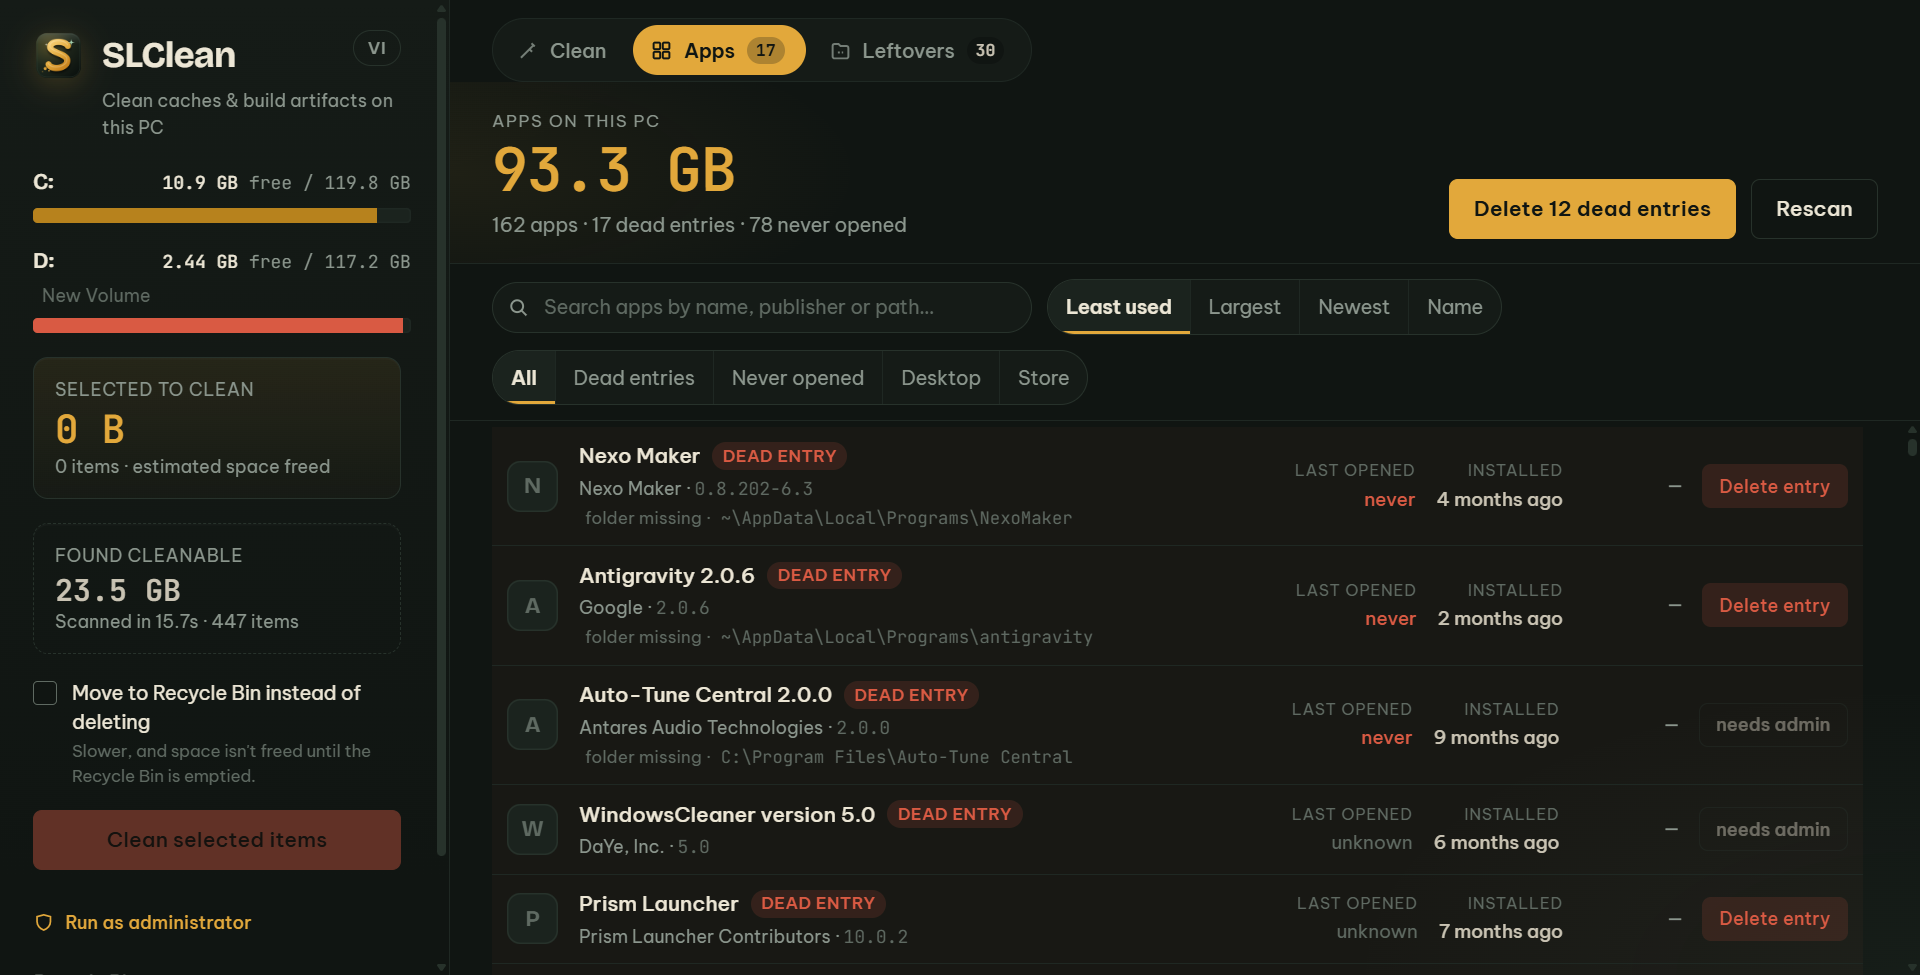
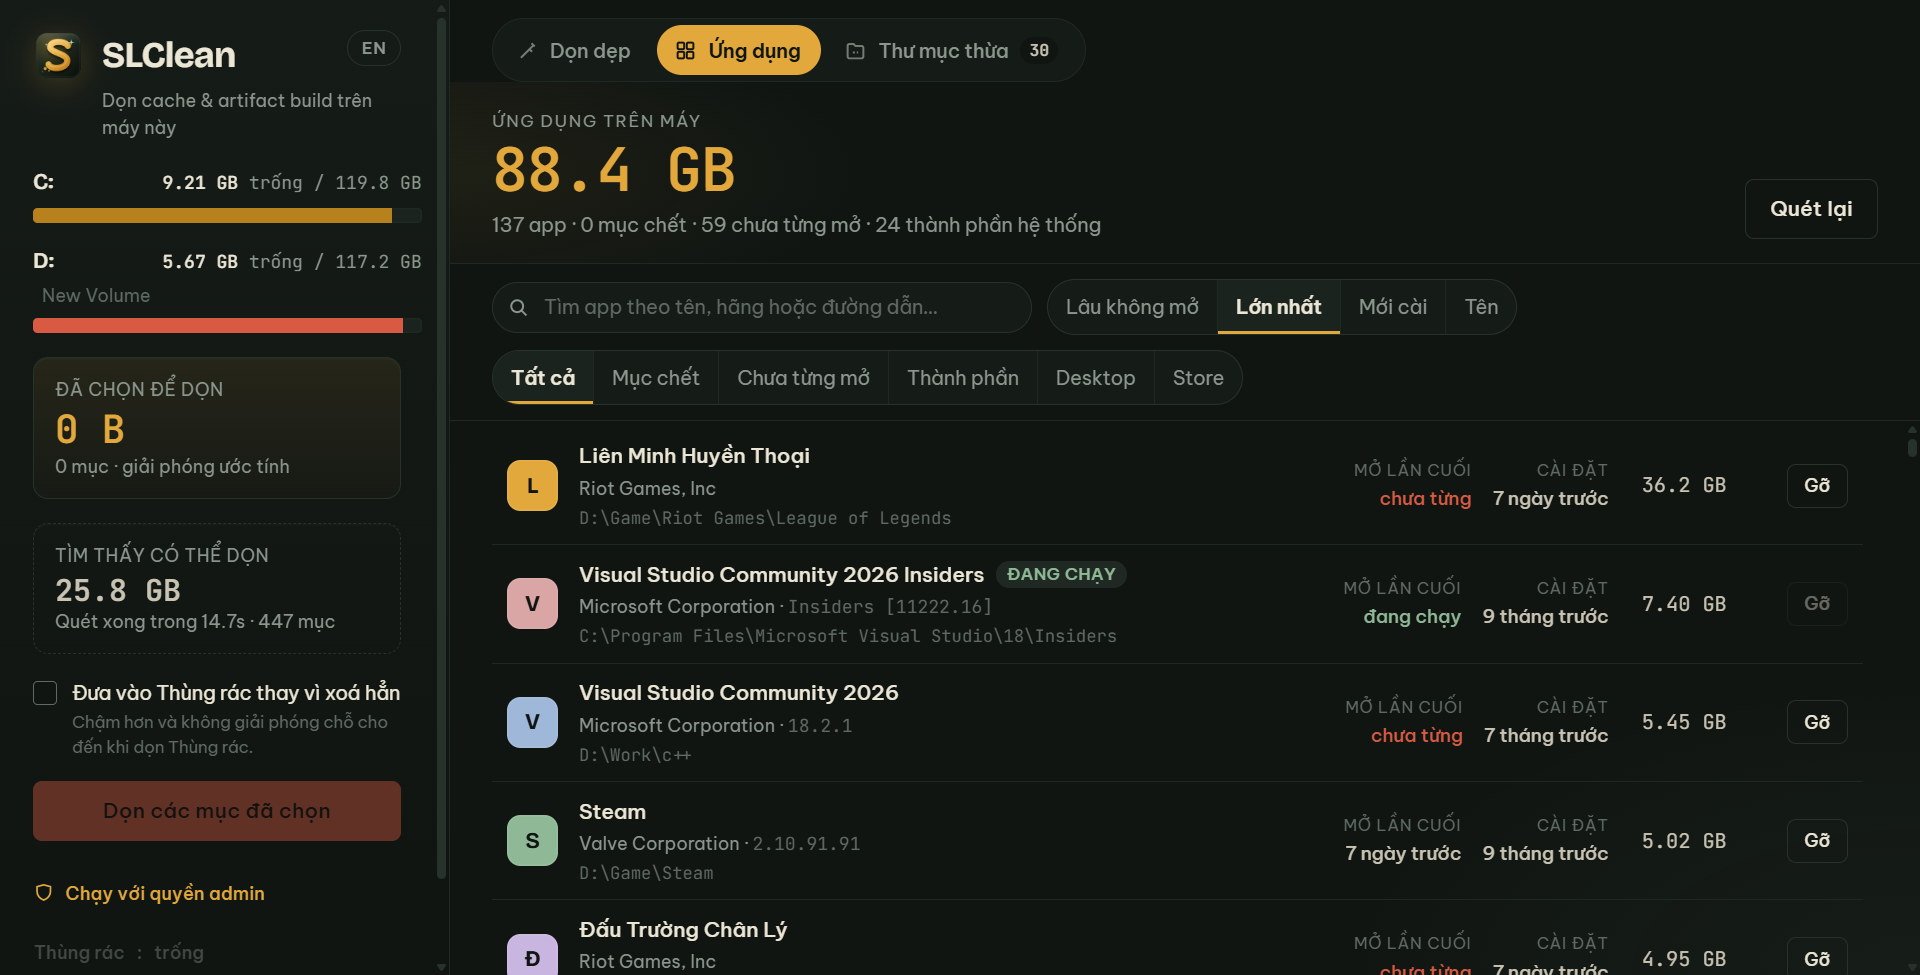
feat: split background system components out of the uninstall candidates
Redistributables, runtimes, SDKs, drivers, services, codecs and extensions are
never opened by hand, so counting them as "never opened" made that number
useless. An entry is a system component when its name says so AND no Start
Menu, Taskbar or Desktop shortcut points into its install folder — the second
condition keeps apps that merely sound like components, such as Visual Studio
Installer, in the normal list.

Components sort last, show "—" for last opened, carry a component tag and have
their own filter chip; they are excluded from the never-opened count.
On this machine that moves 24 entries out and drops never-opened from 84 to 60.

diff --git a/ui/js/apps-tab.js b/ui/js/apps-tab.js
@@ -23,12 +23,18 @@ function appMatches(a) {
   return [a.name, a.publisher, a.install_dir || ""].some((s) => String(s).toLowerCase().includes(appsQuery));
 }
 
+/** App bình thường mà người dùng có thể cân nhắc gỡ (không phải mục chết, không phải thành phần nền). */
+function isUninstallCandidate(a) {
+  return !a.dead && !a.system_component;
+}
+
 function appPasses(a) {
   if (a.gone) return false;
   if (!appMatches(a)) return false;
   switch (appsFilter) {
     case "dead": return a.dead;
-    case "never": return !a.dead && a.usage_known && a.last_used === 0 && !a.running;
+    case "never": return isUninstallCandidate(a) && a.usage_known && a.last_used === 0 && !a.running;
+    case "component": return a.system_component;
     case "desktop": return a.kind === "desktop";
     case "store": return a.kind === "store";
     default: return true;
@@ -42,8 +48,9 @@ function appCompare(x, y) {
     case "name": return x.name.localeCompare(y.name, undefined, { sensitivity: "base" });
     default: {
       // Lâu không mở: mục chết trước, rồi chưa từng mở, rồi không rõ (không có thư mục để đối
-      // chiếu), rồi lần mở cũ nhất; đang chạy cuối. Cùng hạng thì lớn trước.
-      const rank = (a) => (a.dead ? 0 : a.running ? 4 : !a.usage_known ? 2 : a.last_used === 0 ? 1 : 3);
+      // chiếu), rồi lần mở cũ nhất, rồi đang chạy; thành phần nền xuống cuối vì không phải ứng
+      // viên để gỡ. Cùng hạng thì lớn trước.
+      const rank = (a) => (a.dead ? 0 : a.system_component ? 5 : a.running ? 4 : !a.usage_known ? 2 : a.last_used === 0 ? 1 : 3);
       return rank(x) - rank(y) || (x.last_used - y.last_used) || (y.bytes - x.bytes);
     }
   }
@@ -51,6 +58,8 @@ function appCompare(x, y) {
 
 function lastUsedCol(a) {
   if (a.running) return `<span class="app__col app__col--fresh"><small>${t("apps.lastUsedLabel")}</small><b>${t("apps.running")}</b></span>`;
+  // Thành phần nền không có gì để "mở", nên "chưa từng" ở đây là vô nghĩa.
+  if (a.system_component && !a.last_used) return `<span class="app__col app__col--unknown"><small>${t("apps.lastUsedLabel")}</small><b>—</b></span>`;
   if (!a.usage_known) return `<span class="app__col app__col--unknown" title="${esc(t("apps.unknownTitle"))}"><small>${t("apps.lastUsedLabel")}</small><b>${t("apps.unknown")}</b></span>`;
   if (!a.last_used) return `<span class="app__col app__col--never"><small>${t("apps.lastUsedLabel")}</small><b>${t("apps.never")}</b></span>`;
   const stale = isStale(a.last_used);
@@ -76,6 +85,7 @@ function appRow(a) {
   li.style.setProperty("--av", avatarColor(a.name));
   const tags = [];
   if (a.dead) tags.push(`<b class="tag tag--dead" title="${esc(t("apps.deadTitle"))}">${t("apps.dead")}</b>`);
+  if (a.system_component) tags.push(`<b class="tag tag--component" title="${esc(t("apps.componentTitle"))}">${t("apps.component")}</b>`);
   if (a.kind === "store") tags.push(`<b class="tag tag--store">Store</b>`);
   if (a.running) tags.push(`<b class="tag tag--running">${t("apps.running")}</b>`);
   if (a.denied > 0) tags.push(`<b class="tag tag--partial" title="${esc(t("tag.partialTitle"))}">${t("tag.partial")}</b>`);
@@ -126,16 +136,20 @@ function renderApps() {
 }
 
 function refreshAppsTotals() {
-  let bytes = 0, dead = 0, never = 0, deadRemovable = 0, live = 0;
+  let bytes = 0, dead = 0, never = 0, deadRemovable = 0, live = 0, components = 0;
   for (const a of apps.values()) {
     if (a.gone) continue;
     live++;
     bytes += a.folder_exists ? a.bytes : 0;
     if (a.dead) { dead++; if (!a.needs_admin) deadRemovable++; }
+    else if (a.system_component) components++;
     else if (a.usage_known && a.last_used === 0 && !a.running) never++;
   }
   $("#apps-hero").textContent = apps.size ? fmtBytes(bytes) : "—";
-  if (!appsScanning) $("#apps-sub").textContent = apps.size ? t("apps.summary", { n: live, dead, never }) : t("apps.subIdle");
+  if (!appsScanning) {
+    const sum = t("apps.summary", { n: live, dead, never });
+    $("#apps-sub").textContent = apps.size ? (components ? `${sum} · ${t("apps.summaryComponents", { n: components })}` : sum) : t("apps.subIdle");
+  }
   const hidden = [...apps.values()].filter((a) => !a.gone && !appPasses(a)).length;
   $("#apps-hint").textContent = hidden ? t("apps.hiddenHint", { n: hidden }) : "";
   const bulk = $("#btn-remove-dead");

diff --git a/ui/js/i18n-strings.js b/ui/js/i18n-strings.js
@@ -134,6 +134,7 @@ const STRINGS = {
     "apps.eyebrow": "Ứng dụng trên máy",
     "apps.subIdle": "Windows ghi lại lần bạn mở mỗi app. App lâu không mở hoặc chưa từng mở là ứng viên để gỡ.",
     "apps.summary": "{n} app · {dead} mục chết · {never} chưa từng mở",
+    "apps.summaryComponents": "{n} thành phần hệ thống",
     "apps.measuring": "Đang đo thư mục cài {done}/{total}…",
     "apps.hiddenHint": "Bộ lọc đang ẩn {n} app",
     "apps.search": "Tìm app theo tên, hãng hoặc đường dẫn…",
@@ -143,6 +144,7 @@ const STRINGS = {
     "apps.sortName": "Tên",
     "apps.filterDead": "Mục chết",
     "apps.filterNever": "Chưa từng mở",
+    "apps.filterComponent": "Thành phần",
     "apps.filterDesktop": "Desktop",
     "apps.filterStore": "Store",
     "apps.lastUsedLabel": "Mở lần cuối",
@@ -150,6 +152,8 @@ const STRINGS = {
     "apps.running": "đang chạy",
     "apps.never": "chưa từng",
     "apps.unknown": "không rõ",
+    "apps.component": "thành phần",
+    "apps.componentTitle": "Thành phần chạy nền (redistributable, runtime, SDK, driver, service…): không có lối mở từ Start Menu nên không tính là app lâu không dùng. Gỡ có thể làm app khác hỏng.",
     "apps.unknownTitle": "Windows không ghi thư mục cài của app này nên không đối chiếu được với nhật ký mở app.",
     "apps.dead": "mục chết",
     "apps.deadTitle": "Thư mục và trình gỡ đã mất nhưng Windows vẫn liệt kê app này. Settings không gỡ được; xoá mục ở đây.",
@@ -339,6 +343,7 @@ const STRINGS = {
     "apps.eyebrow": "Apps on this PC",
     "apps.subIdle": "Windows records when you open each app. Apps unopened for months, or never opened, are candidates to remove.",
     "apps.summary": "{n} apps · {dead} dead entries · {never} never opened",
+    "apps.summaryComponents": "{n} system components",
     "apps.measuring": "Measuring install folders {done}/{total}…",
     "apps.hiddenHint": "Filter hides {n} apps",
     "apps.search": "Search apps by name, publisher or path…",
@@ -348,6 +353,7 @@ const STRINGS = {
     "apps.sortName": "Name",
     "apps.filterDead": "Dead entries",
     "apps.filterNever": "Never opened",
+    "apps.filterComponent": "Components",
     "apps.filterDesktop": "Desktop",
     "apps.filterStore": "Store",
     "apps.lastUsedLabel": "Last opened",
@@ -355,6 +361,8 @@ const STRINGS = {
     "apps.running": "running",
     "apps.never": "never",
     "apps.unknown": "unknown",
+    "apps.component": "component",
+    "apps.componentTitle": "Background component (redistributable, runtime, SDK, driver, service…): nothing opens it from the Start Menu, so it is not counted as an unused app. Removing it can break other apps.",
     "apps.unknownTitle": "Windows recorded no install folder for this app, so the launch log can't be matched to it.",
     "apps.dead": "dead entry",
     "apps.deadTitle": "Folder and uninstaller are gone but Windows still lists this app. Settings can't remove it; delete the entry here.",

diff --git a/ui/index.html b/ui/index.html
@@ -260,6 +260,7 @@
         <button class="quick__btn" data-apps-filter="all" data-i18n="filter.all">Tất cả</button>
         <button class="quick__btn" data-apps-filter="dead" data-i18n="apps.filterDead">Mục chết</button>
         <button class="quick__btn" data-apps-filter="never" data-i18n="apps.filterNever">Chưa từng mở</button>
+        <button class="quick__btn" data-apps-filter="component" data-i18n="apps.filterComponent">Thành phần</button>
         <button class="quick__btn" data-apps-filter="desktop" data-i18n="apps.filterDesktop">Desktop</button>
         <button class="quick__btn" data-apps-filter="store" data-i18n="apps.filterStore">Store</button>
       </div>

diff --git a/ui/css/apps-and-leftovers.css b/ui/css/apps-and-leftovers.css
@@ -68,6 +68,7 @@
 .app__actions .row__open { opacity: 0; }
 .app:hover .app__actions .row__open, .app__actions .row__open:focus-visible { opacity: 1; }
 
+.tag--component { background: var(--moss-3); color: var(--dust); }
 .tag--dead { background: var(--ember-tint); color: var(--ember); }
 .tag--store { background: var(--moss-3); color: var(--dust); }
 .tag--running { background: var(--sage-tint); color: var(--sage); }

diff --git a/src-tauri/src/apps.rs b/src-tauri/src/apps.rs
@@ -35,6 +35,9 @@ pub struct AppInfo {
     pub measured: bool,
     /// Mục đăng ký còn nhưng trình gỡ đã mất: chỉ còn cách xoá mục.
     pub dead: bool,
+    /// Thành phần chạy nền (redistributable, runtime, SDK, driver, service…): người dùng không
+    /// bao giờ tự mở nên "chưa từng mở" không có nghĩa gì; không phải ứng viên để gỡ.
+    pub system_component: bool,
     pub folder_exists: bool,
     /// Xoá mục chết dưới HKLM cần quyền admin.
     pub needs_admin: bool,
@@ -86,6 +89,11 @@ impl Usage {
         self.shortcuts.dir_for_name(name).filter(|p| !crate::cleaner::is_root_like(p) && p.is_dir())
     }
 
+    /// Có lối mở app này từ Start Menu/Taskbar/Desktop không.
+    pub fn has_shortcut_into(&self, dir: &Path) -> bool {
+        self.shortcuts.points_into(dir)
+    }
+
     /// (lần cuối, tổng số lần) của mọi bản ghi có đường dẫn nằm dưới `dir`.
     pub fn under_dir(&self, dir: &Path) -> (u64, u32) {
         let prefix = format!("{}\\", lower(dir));
@@ -115,6 +123,25 @@ impl Usage {
     }
 }
 
+/// Từ trong tên nói rằng đây là thành phần chạy nền chứ không phải app để mở.
+const COMPONENT_WORDS: &[&str] = &[
+    "redistributable", "redist", "runtime", "sdk", "driver", "drivers", "service", "services", "framework",
+    "extension", "extensions", "codec", "codecs", "addon", "updater", "installer", "support", "libraries", "runtimes",
+];
+
+/// Tên có từ khoá thành phần (so theo từ, không so chuỗi con: "Discord" không chứa "cord").
+fn name_says_component(name: &str) -> bool {
+    let lower = name.to_ascii_lowercase();
+    lower.split(|c: char| !c.is_alphanumeric() && c != '+').any(|w| COMPONENT_WORDS.contains(&w)) || lower.contains("software development kit")
+}
+
+/// Thành phần chạy nền: tên nói vậy **và** Windows không cho người dùng lối mở nào (không
+/// shortcut nào ở Start Menu/Taskbar/Desktop trỏ vào thư mục cài). Điều kiện thứ hai giữ lại
+/// những app tên nghe như thành phần nhưng vẫn mở được, ví dụ "Visual Studio Installer".
+fn is_system_component(name: &str, install_dir: Option<&Path>, usage: &Usage) -> bool {
+    name_says_component(name) && !install_dir.map(|p| usage.has_shortcut_into(p)).unwrap_or(false)
+}
+
 fn from_desktop(d: DesktopApp, usage: &Usage, elevated: bool) -> AppInfo {
     let install_dir = d.install_dir.clone().or_else(|| if d.dead { None } else { usage.dir_by_shortcut_name(&d.name) });
     let (last_used, run_count) = install_dir.as_ref().map(|p| usage.under_dir(p)).unwrap_or((0, 0));
@@ -123,6 +150,7 @@ fn from_desktop(d: DesktopApp, usage: &Usage, elevated: bool) -> AppInfo {
     // Có đường dẫn thư mục cài là đối chiếu được, kể cả khi thư mục đã bị xoá tay: nhật ký
     // UserAssist vẫn giữ bản ghi cũ nên mục chết vẫn cho biết lần mở cuối trước khi xoá.
     let usage_known = install_dir.is_some();
+    let system_component = !d.dead && is_system_component(&d.name, install_dir.as_deref(), usage);
     AppInfo {
         id: d.id(),
         kind: "desktop".into(),
@@ -140,6 +168,7 @@ fn from_desktop(d: DesktopApp, usage: &Usage, elevated: bool) -> AppInfo {
         denied: 0,
         measured: false,
         dead: d.dead,
+        system_component,
         folder_exists,
         needs_admin: d.dead && d.hive == Hive::Hklm && !elevated,
         msi: d.msi,
@@ -166,6 +195,7 @@ fn from_store(s: StoreApp, usage: &Usage) -> AppInfo {
         denied: 0,
         measured: false,
         dead: false,
+        system_component: is_system_component(&s.display, Some(&s.root), usage),
         folder_exists,
         needs_admin: false,
         msi: false,
@@ -253,6 +283,28 @@ mod tests {
         assert_eq!(usage.by_family("Microsoft.Paint_8wekyb3d8bbwe"), (42, 2));
     }
 
+    #[test]
+    fn component_names_are_recognised_by_word() {
+        for n in [
+            "Microsoft Visual C++ 2013 Redistributable (x64) - 12.0.40664",
+            "Microsoft Windows Desktop Runtime - 8.0.24 (x64)",
+            "Windows Software Development Kit - Windows 10.0.26100.7175",
+            "Mozilla Maintenance Service",
+            "TAP-Windows 9.24.2 (driver)",
+            "AV1 Video Extension",
+            "Apple Mobile Device Support",
+        ] {
+            assert!(name_says_component(n), "{n}");
+        }
+        for n in ["Discord", "Blockbench 4.12", "Zoom Workplace", "Steam", "Riot Client", "FL Studio 2025", "Slay the Spire 2"] {
+            assert!(!name_says_component(n), "{n}");
+        }
+        // Có shortcut để mở thì không phải thành phần nền, dù tên nghe như vậy.
+        let usage = Usage::empty();
+        assert!(is_system_component("Microsoft Visual Studio Installer", Some(Path::new(r"C:\Nope")), &usage));
+        assert!(!is_system_component("Discord", Some(Path::new(r"C:\Nope")), &usage));
+    }
+
     /// Máy nào cũng có vài app mà Windows ghi lần mở theo AppUserModelID/shortcut; sau khi đổi
     /// qua exe đích, số bản ghi có đường dẫn phải tăng lên.
     #[test]
@@ -276,6 +328,10 @@ mod tests {
         println!("apps={} desktop={} store={} dead={} with-last-used={} running={}", apps.len(), apps.iter().filter(|a| a.kind == "desktop").count(), apps.iter().filter(|a| a.kind == "store").count(), dead.len(), apps.iter().filter(|a| a.last_used > 0).count(), apps.iter().filter(|a| a.running).count());
         for a in &dead {
             println!("  DEAD {} | dir={:?} exists={} admin={}", a.name, a.install_dir, a.folder_exists, a.needs_admin);
+        }
+        println!("components={}", apps.iter().filter(|a| a.system_component).count());
+        for a in apps.iter().filter(|a| a.system_component) {
+            println!("  COMP {}", a.name);
         }
         let mut used: Vec<_> = apps.iter().filter(|a| a.last_used > 0).collect();
         used.sort_by_key(|a| std::cmp::Reverse(a.last_used));

diff --git a/src-tauri/src/shortcuts.rs b/src-tauri/src/shortcuts.rs
@@ -265,6 +265,13 @@ impl ShortcutIndex {
         None
     }
 
+    /// Có shortcut nào (Start Menu, Taskbar, Desktop) mở một exe nằm trong `dir` không: dấu
+    /// hiệu Windows có cho người dùng một lối mở app này, tức nó không phải thành phần chạy nền.
+    pub fn points_into(&self, dir: &Path) -> bool {
+        let prefix = format!("{}\\", dir.to_string_lossy().to_ascii_lowercase().replace('/', "\\").trim_end_matches('\\'));
+        self.by_lnk.values().any(|t| t.to_string_lossy().to_ascii_lowercase().starts_with(&prefix))
+    }
+
     /// Thư mục chứa exe của shortcut có tên trùng tên app (đã chuẩn hoá).
     pub fn dir_for_name(&self, name: &str) -> Option<PathBuf> {
         let n = crate::leftovers::norm(name);
@@ -383,6 +390,10 @@ mod tests {
         assert_eq!(idx.resolve(r"C:\Apps\Bar\bar.exe"), None, "exe paths are already resolved");
         assert_eq!(idx.dir_for_name("Foo"), Some(PathBuf::from(r"C:\Apps\Foo")));
         assert_eq!(idx.dir_for_name("Bar"), None);
+        assert!(idx.points_into(Path::new(r"C:\Apps\Foo")));
+        assert!(idx.points_into(Path::new(r"c:\apps\foo\")), "case and trailing slash must not matter");
+        assert!(!idx.points_into(Path::new(r"C:\Apps\Foobar")), "prefix must stop at a folder boundary");
+        assert!(!idx.points_into(Path::new(r"C:\Apps\Bar")));
     }
 
     /// Start Menu của mọi máy Windows có shortcut trỏ tới exe (ví dụ Windows Media Player Legacy).
